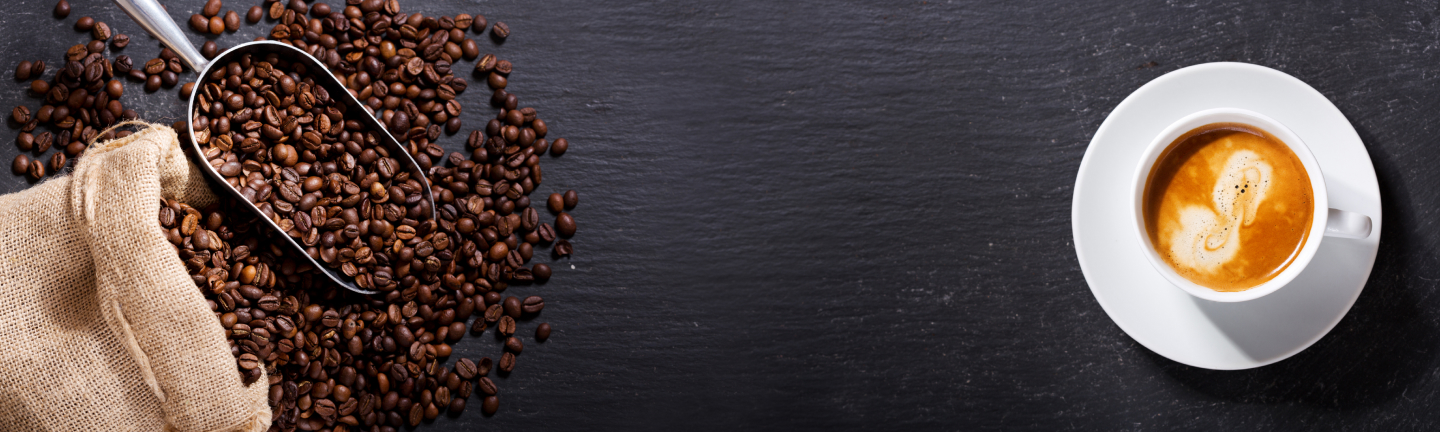
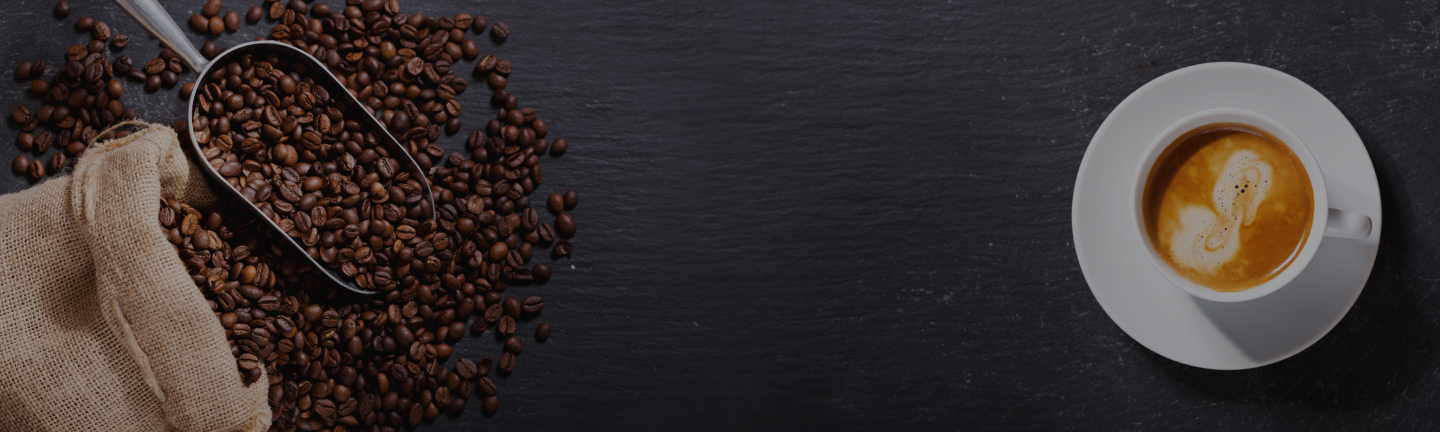
Added: cta section, Changed: bg img

diff --git a/css/style.css b/css/style.css
@@ -19,10 +19,10 @@ body {
   border: 1px solid #fff;
   line-height: 48px;
   transition: 0.2s;
+  text-transform: uppercase;
 }
 
 /* ===================== HEADER ===================== */
-
 .header {
   text-transform: uppercase;
   position: fixed;
@@ -42,9 +42,7 @@ body {
   display: flex;
   gap: 40px;
 }
-
 /* ===================== MAIN ===================== */
-
 .main {
   height: 1032px;
   background: url("../img/main/background.jpg") 50% 50%/cover no-repeat;
@@ -70,15 +68,14 @@ body {
   max-width: 760px;
   margin-bottom: 48px;
 }
-
 /* ===================== FEATURES ===================== */
-
 .features {
   background: url("../img/features/background.jpg") 50% 0/auto 100% no-repeat;
 }
 .features__content {
   padding: 144px 0px;
   display: flex;
+  gap: 20px;
   justify-content: space-between;
   align-items: center;
 }
@@ -107,4 +104,37 @@ body {
   font-size: 12px;
   line-height: 24px;
   max-width: 272px;
+}
+
+/* ===================== CTA ===================== */
+.cta {
+  background: url("../img/cta/background.jpg") 50% 50%/cover no-repeat;
+}
+.cta__content {
+  padding: 96px 40px;
+  text-align: center;
+}
+.cta__title {
+  font-weight: 700;
+  font-size: 40px;
+  margin-bottom: 48px;
+  position: relative;
+}
+.cta__title::before {
+  content: "";
+  position: absolute;
+  bottom: -24px;
+  left: 50%;
+  height: 1px;
+  width: 190px;
+  background-color: #fff;
+  transform: translateX(-50%);
+}
+.cta__subtitle {
+  margin: 0 auto 48px;
+  line-height: 24px;
+  max-width: 474px;
+}
+.cta__button {
+  display: inline-block;
 }

diff --git a/css/style.scss b/css/style.scss
@@ -17,6 +17,7 @@ body {
     border: 1px solid #fff;
     line-height: 48px;
     transition: .2s;
+    text-transform: uppercase;
 }
 /* ===================== HEADER ===================== */
 
@@ -121,6 +122,7 @@ body {
     &__content {
         padding: 144px 0px;
         display: flex;
+        gap: 20px;
         justify-content: space-between;
         align-items: center;
     }
@@ -176,5 +178,50 @@ body {
         max-width: 272px;
     }
 }
-.right {
+
+/* ===================== CTA ===================== */
+
+.cta {
+    background: url('../img/cta/background.jpg') 50% 50%/cover no-repeat;
+
+    // .cta__content
+
+    &__content {
+        padding: 96px 40px;
+        text-align: center;
+    }
+
+    // .cta__title
+
+    &__title {
+        font-weight: 700;
+        font-size: 40px;
+        margin-bottom: 48px;
+        position: relative;
+
+        &::before {
+            content: '';
+            position: absolute;
+            bottom: -24px;
+            left: 50%;
+            height: 1px;
+            width: 190px;
+            background-color: #fff;
+            transform: translateX(-50%);
+        }
+    }
+
+    // .cta__subtitle
+
+    &__subtitle {
+        margin: 0 auto 48px;
+        line-height: 24px;
+        max-width: 474px;
+    }
+
+    // .cta__button
+
+    &__button {
+        display: inline-block;
+    }
 }

diff --git a/index.html b/index.html
@@ -35,7 +35,7 @@
             <div class="main__img"><img src="img/main/image.svg" alt="Cofee"></div>
             <h1 class="main__title">The Coffee Roasters</h1>
             <h2 class="main__subtitle">We source our coffee seasonally, from farmers who care, and roast to highlight what makes them special.</h2>
-            <a href="#!" class="button main__button">View our menu</a>
+            <a href="#!" class="main__button button">View our menu</a>
         </div>
     </main>
     <section class="features">
@@ -88,6 +88,13 @@
                     </div>
                 </div>
             </div>
+        </div>
+    </section>
+    <section class="cta">
+        <div class="cta__content">
+            <h2 class="cta__title">Looking for a fresh coffee?</h2>
+            <h3 class="cta__subtitle">Come drink a coffee with us on Fleet Street,  Chancery Lane or Milkwood Road!</h3>
+            <a href="#!" class="cta__button button">Book a table</a>
         </div>
     </section>
 
